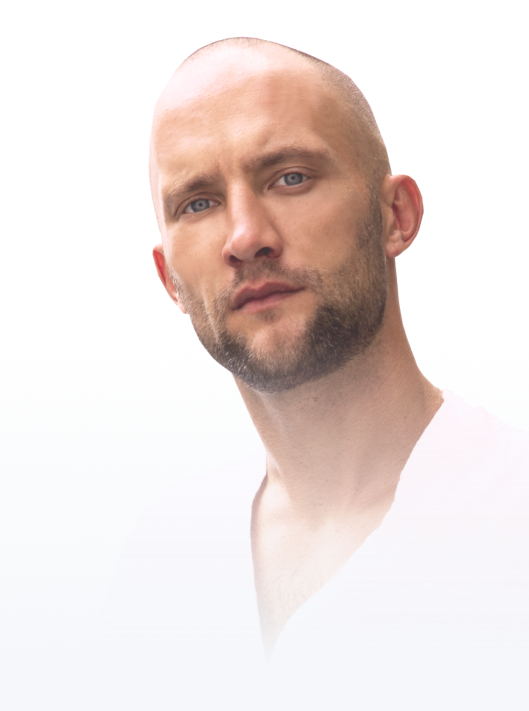
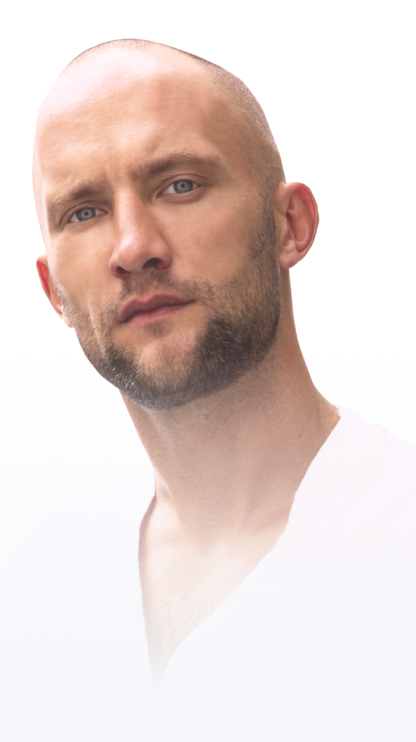
доделана страница автора

Changed region(s): [[0.0625, 0.0309, 0.8438, 0.8664], [0.4688, 0.8354, 0.5, 0.8664]]

diff --git a/pages/about.vue b/pages/about.vue
@@ -1,10 +1,11 @@
 <template lang="pug">
   .about.container
+    BackToHome
     .aboutTop.gridContainer
-      .gridContainer__cell._span-5._span-md-5._span-sm-3._span-xs-3
+      .gridContainer__cell._span-4._offset-1._span-md-4._span-sm-3._span-xs-3
         .aboutTop__img
           img(src='/img/about/about_top_bg.png')
-      .gridContainer__cell._span-7._span-md-7._span-sm-3._span-xs-3
+      .gridContainer__cell._span-7._span-md-8._span-sm-3._span-xs-3
         .aboutTop__text В психологию редко приходят те, кому просто интересно. Обычно это люди с болезненным, травматичным прошлым
     .about_statham
       .aboutStatham.gridContainer
@@ -40,7 +41,43 @@
         .gridContainer__cell._span-5._offset-1._span-md-6._offset-md-1._span-sm-4._offset-sm-0._order-sm-6._span-xs-3
           .aboutBorderText
             p После того как я на себе увидел действие метода — понял, что могу объединить свои знания и помогать людям меняться внутренне и физически.
-        .gridContainer__cell._span-7._offset-1
+        .gridContainer__cell._span-7._offset-1._span-md-8._offset-md-0._span-sm-6._order-sm-7._span-xs-3
+          .aboutContentBird__video
+            AboutVideo(
+              videoSrc='https://youtu.be/mWyak0g5LLI'
+              previewSrc='/img/about/about_video_0.jpg',
+            )
+        .gridContainer__cell._span-3._offset-9._span-md-3._offset-md-9._span-sm-3._offset-sm-2._order-sm-8._span-xs-2._offset-xs-1
+          .aboutContentBird__videoText
+            p Пример работы с&nbsp;симптомом
+        .gridContainer__cell._span-5._offset-6._span-md-6._offset-md-1._span-sm-4._offset-sm-2._order-sm-9._span-xs-3
+          .aboutBorderText
+            p Мои ученики и клиенты знают, какой именно стресс запускает тот или иной симптом: от простуды до онкологических заболеваний.
+    .aboutVideos
+      .gridContainer
+        .aboutVideos__item.gridContainer__cell._span-4._span-md-4._span-sm-4._span-xs-2
+          AboutVideo(
+            title='мигрень'
+            videoSrc='https://youtu.be/mWyak0g5LLI'
+            previewSrc='/img/about/about_video_1.jpg',
+          )
+        .aboutVideos__item.gridContainer__cell._span-4._span-md-4._span-sm-4._offset-sm-2._span-xs-2._offset-xs-1
+          AboutVideo(
+            title='Аллергия'
+            videoSrc='https://youtu.be/mWyak0g5LLI'
+            previewSrc='/img/about/about_video_2.jpg',
+          )
+        .aboutVideos__item.gridContainer__cell._span-4._span-md-4._span-sm-4._span-xs-2
+          AboutVideo(
+            title='Простуда. ОРВИ или ОРЗ'
+            videoSrc='https://youtu.be/mWyak0g5LLI'
+            previewSrc='/img/about/about_video_3.jpg',
+          )
+    .about_youtube
+      .gridContainer
+        .gridContainer__cell._span-6._offset-3._span-md-5._offset-md-3._span-sm-4._offset-sm-1
+          p Посмотрите другие видео на&nbsp;
+            a(href='https://youtu.be/mWyak0g5LLI' target='_blank') Ютуб канале
     .about__road
       AboutRoad
     .about__mission
@@ -50,10 +87,14 @@
 <script>
 import AboutRoad from '~/components/about/AboutRoad'
 import AboutMission from '~/components/about/AboutMission'
+import AboutVideo from '~/components/about/AboutVideo'
+import BackToHome from '~/components/BackToHome'
 export default {
   components: {
     AboutMission,
     AboutRoad,
+    AboutVideo,
+    BackToHome,
   },
 }
 </script>
@@ -67,6 +108,14 @@ export default {
     padding-bottom 144px
   @media $xs
     padding-bottom 160px
+  &__mission
+    margin-top 256px
+    @media $md_minus
+      margin-top 127px
+    @media $sm_minus
+      margin-top 245px
+    @media $xs
+      margin-top 184px
 .aboutTop
   //height 700px
   //display flex
@@ -79,25 +128,18 @@ export default {
   @media $xs
     margin-bottom 0
   &__img
-    margin-top -32px
+    margin-top -40px
     @media $md_minus
-      width calc(100% + 44px)
       position relative
       margin-top 24px
     @media $sm_minus
-      width calc(100% + 64px)
       margin-top 32px
     @media $xs
-      width calc(100% - 68px + 24px)
       margin-top 16px
       left 0
       margin-left auto
     & img
       position relative
-      @media $md_minus
-        left -44px
-      @media $sm_minus
-        left -64px
       @media $xs
         left unset
         right -24px
@@ -237,7 +279,7 @@ export default {
        display block
        margin-bottom 64px
      @media $xs
-       width 80px
+       width 64px
        height 2px
        margin-bottom 40px
    & p
@@ -286,4 +328,52 @@ export default {
         margin-top 56px
       @media $xs
         margin-top 88px
+  &__video
+    margin-top 48px
+    margin-bottom 116px
+    @media $md_minus
+      margin-top 104px
+      margin-bottom 104px
+    @media $sm_minus
+      margin-top 48px
+      margin-bottom 0
+    @media $xs
+      margin-top 32px
+      width calc(100% + 24px)
+      margin-left -24px
+  &__videoText
+    margin-top 48px
+    @media $md_minus
+      margin-top 104px
+    @media $sm_minus
+      margin-top 8px
+      margin-bottom 96px
+    @media $xs
+      margin-top 0
+      margin-bottom 24px
+.aboutVideos
+  &__item
+    @media $sm_minus
+      margin-bottom 48px
+    @media $xs
+      margin-bottom 32px
+.about_youtube
+  font-size 24px
+  line-height 40px
+  margin 80px 0 128px
+  letter-spacing 0.03em
+  @media $sm_minus
+    margin 128px 0
+  @media $xs
+    margin 80px 0 83px
+    font-size 16px
+    line-height 24px
+  & a
+    font-size 24px
+    line-height 32px
+    color $acsent
+    text-transform lowercase
+    @media $xs
+      font-size 16px
+      line-height 24px
 </style>

diff --git a/components/about/AboutVideo.vue b/components/about/AboutVideo.vue
@@ -1,0 +1,86 @@
+<template lang="pug">
+  .aboutVideo
+    .aboutVideo__video
+      .aboutVideo__play
+        svg-icon(name="video_play")
+      silent-box(:image='video')
+    .aboutVideo__title(v-if='title') {{title}}
+</template>
+
+<script>
+import VueSilentbox from 'vue-silentbox'
+export default {
+  components: {
+    VueSilentbox,
+  },
+  props: {
+    title: {
+      type: String,
+      required: false,
+    },
+    videoSrc: {
+      type: String,
+      required: true,
+    },
+    previewSrc: {
+      type: String,
+      required: true,
+    },
+  },
+  data() {
+    return {
+      video: {
+        src: this.videoSrc,
+        thumbnail: this.previewSrc,
+      },
+    }
+  },
+}
+</script>
+
+<style lang="stylus">
+.aboutVideo
+  position relative
+  &:hover
+    cursor pointer
+    & .aboutVideo__play svg
+      color $acsent
+  &__video
+    position relative
+  &__title
+    font-size 24px
+    line-height 36px
+    margin-top 32px
+    color $acsent
+    font-weight 800
+    letter-spacing 0.02em
+    text-transform uppercase
+    @media $sm_minus
+      line-height 40px
+      margin-top 40px
+      letter-spacing 0.03em
+    @media $xs
+      font-size 16px
+      line-height 32px
+      letter-spacing 0.04em
+  &__play
+    width 112px
+    height 112px
+    position absolute
+    left 50%
+    top 50%
+    transform translate(-50%, -50%)
+    z-index 2
+    pointer-events none
+    @media $xs
+      width 64px
+      height 64px
+    & svg
+      width 100%
+      height 100%
+      color transparent
+      transition $transition
+  & #silentbox-overlay__embed
+    height 45vw
+    max-height 80%
+</style>

diff --git a/components/BackToHome.vue b/components/BackToHome.vue
@@ -1,0 +1,43 @@
+<template lang="pug">
+  nuxt-link.backToHome(to="/")
+    .backToHome__icon
+    .backToHome__text На главную
+</template>
+
+<script>
+export default {}
+</script>
+
+<style scoped lang="stylus">
+.backToHome
+  position fixed
+  top 168px
+  left 15px
+  z-index 10
+  &__icon
+    position relative
+    width 12px
+    height 32px
+    border-right 1px solid $charkGrey
+    border-top 1px solid $charkGrey
+    &:before
+      content ''
+      width 16px
+      height 16px
+      position absolute
+      top 0
+      left -6px
+      transform translate(0,-50%)
+      background url('/img/arrow_back.svg') no-repeat
+      background-size contain
+      display block
+  &__text
+    transform rotate(90deg)
+    text-transform lowercase
+    font-size 16px
+    letter-spacing 0.02em
+    position: absolute;
+    left -40px
+    top 88px
+    width 100px
+</style>

diff --git a/components/about/AboutMission.vue b/components/about/AboutMission.vue
@@ -75,7 +75,7 @@ export default {
       width 404px
       height 472px
       right -10%
-      top 24px
+      top -117px
     @media $xs
       top -144px
       width 336px
